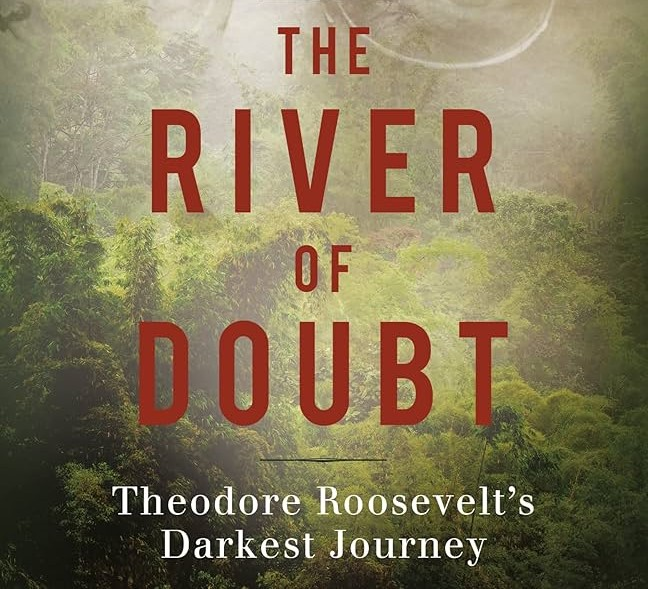
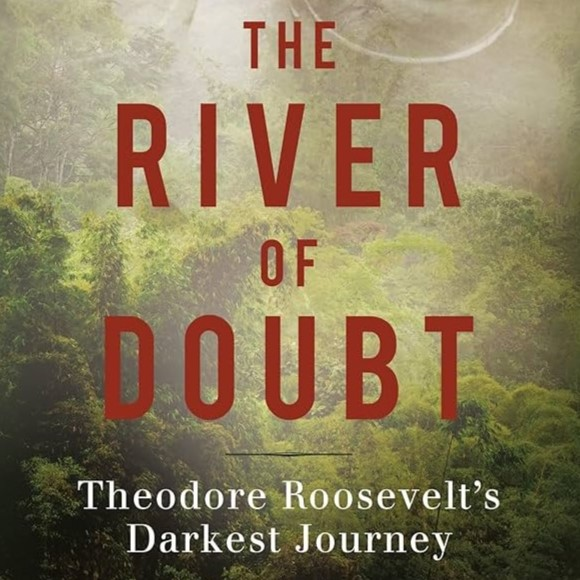
Late Day 18 - game updates

diff --git a/rod_interactive/rod_game.rb b/rod_interactive/rod_game.rb
@@ -2,7 +2,7 @@
 
 require 'ruby2d'
 
-set width: 648, height: 589, title: "River of Doubt Interactive Game"
+set width: 580, height: 580, title: "River of Doubt Interactive Game"
 
 Image.new('rod_cover.jpg')
 

diff --git a/log.md b/log.md
@@ -126,6 +126,7 @@
 04/24/26
 
 - began making game, got the basic structure set up and ready to add more stuff now
+- most of my progress now will come in the form of actually working on the code project, so this log will likely be less full...
 
 -----
 
@@ -154,3 +155,9 @@
 - had to rework some stuff in the gamestate class, still working out how to display stuff nicely
 - switched to mouse click buttons that way there's only one input I need to check for
 - once I do get this logic figure out it should be rinse and repeat to add the rest of the stages
+
+-----
+
+04/29/26
+
+- 
